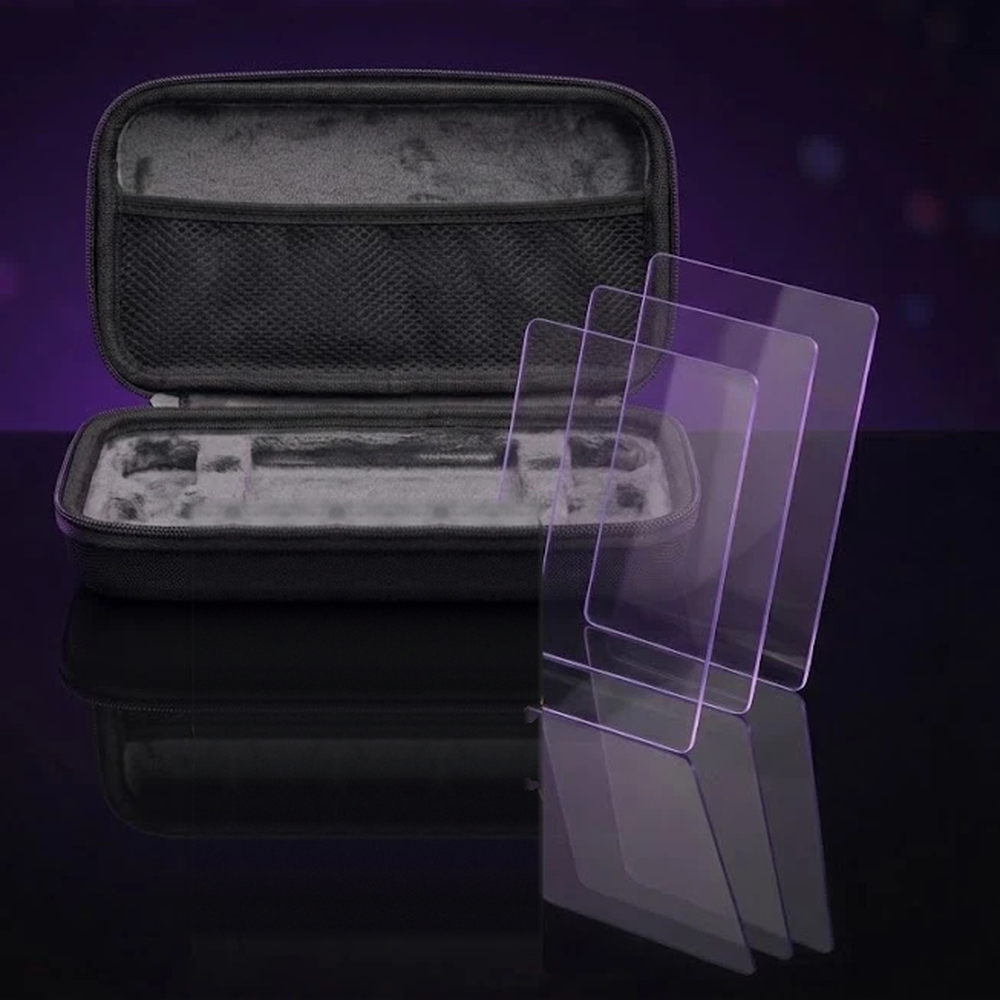
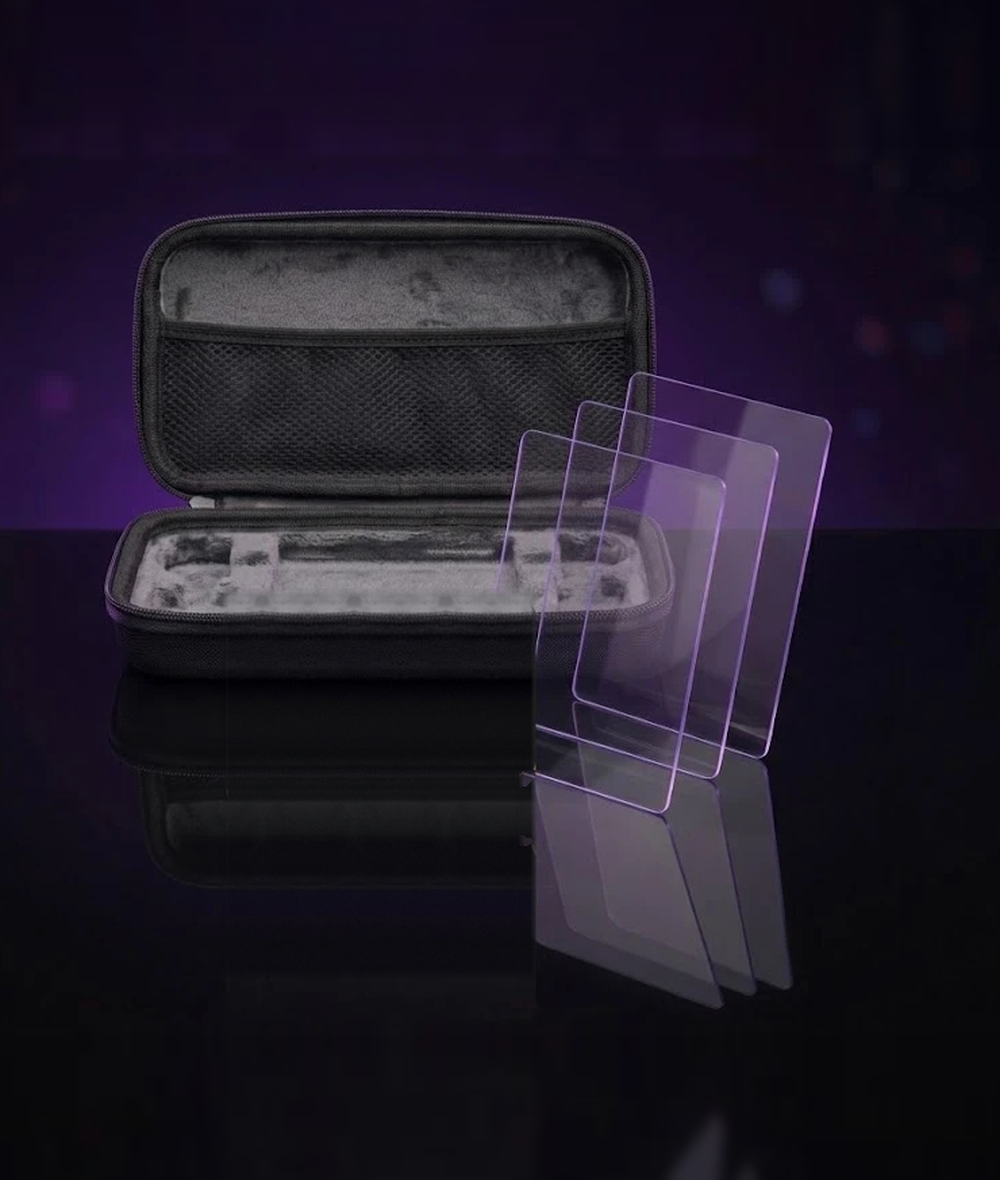
R36H Protection Kit photo: portrait framing so cart thumbnails keep the protectors
Claude-Session: https://claude.ai/code/session_0194H2LVwURZ3sWabZnWgQ4r

Changed region(s): [[0.0, 0.062, 0.93, 1.0], [0.806, 0.124, 0.837, 0.186], [0.0, 0.248, 0.031, 0.31]]

diff --git a/CHANGELOG.md b/CHANGELOG.md
@@ -8,8 +8,9 @@ giant 128GB microSD card in front of the case, both baked into the image.
 media/r36h-kit-clean.png is the same photo rebuilt: the banner is cropped
 off and the card is painted out. The hidden strip behind the card (the tray's
 foam lip, the zipper rim and the floor reflection) is rebuilt from the pixels
-beside it, matched row by row so there is no seam. Square crop that keeps the
-case and all three screen protectors. Uploaded to the product as its only
+beside it, matched row by row so there is no seam. Portrait 1000x1180 with wide margins: the cart
+drawer thumbnail is taller than wide and cover-crops the sides, so a square
+image lost the protectors. The wall and floor are extended above and below. Uploaded to the product as its only
 image; the old photo is deleted.
 
 ## Applied to
